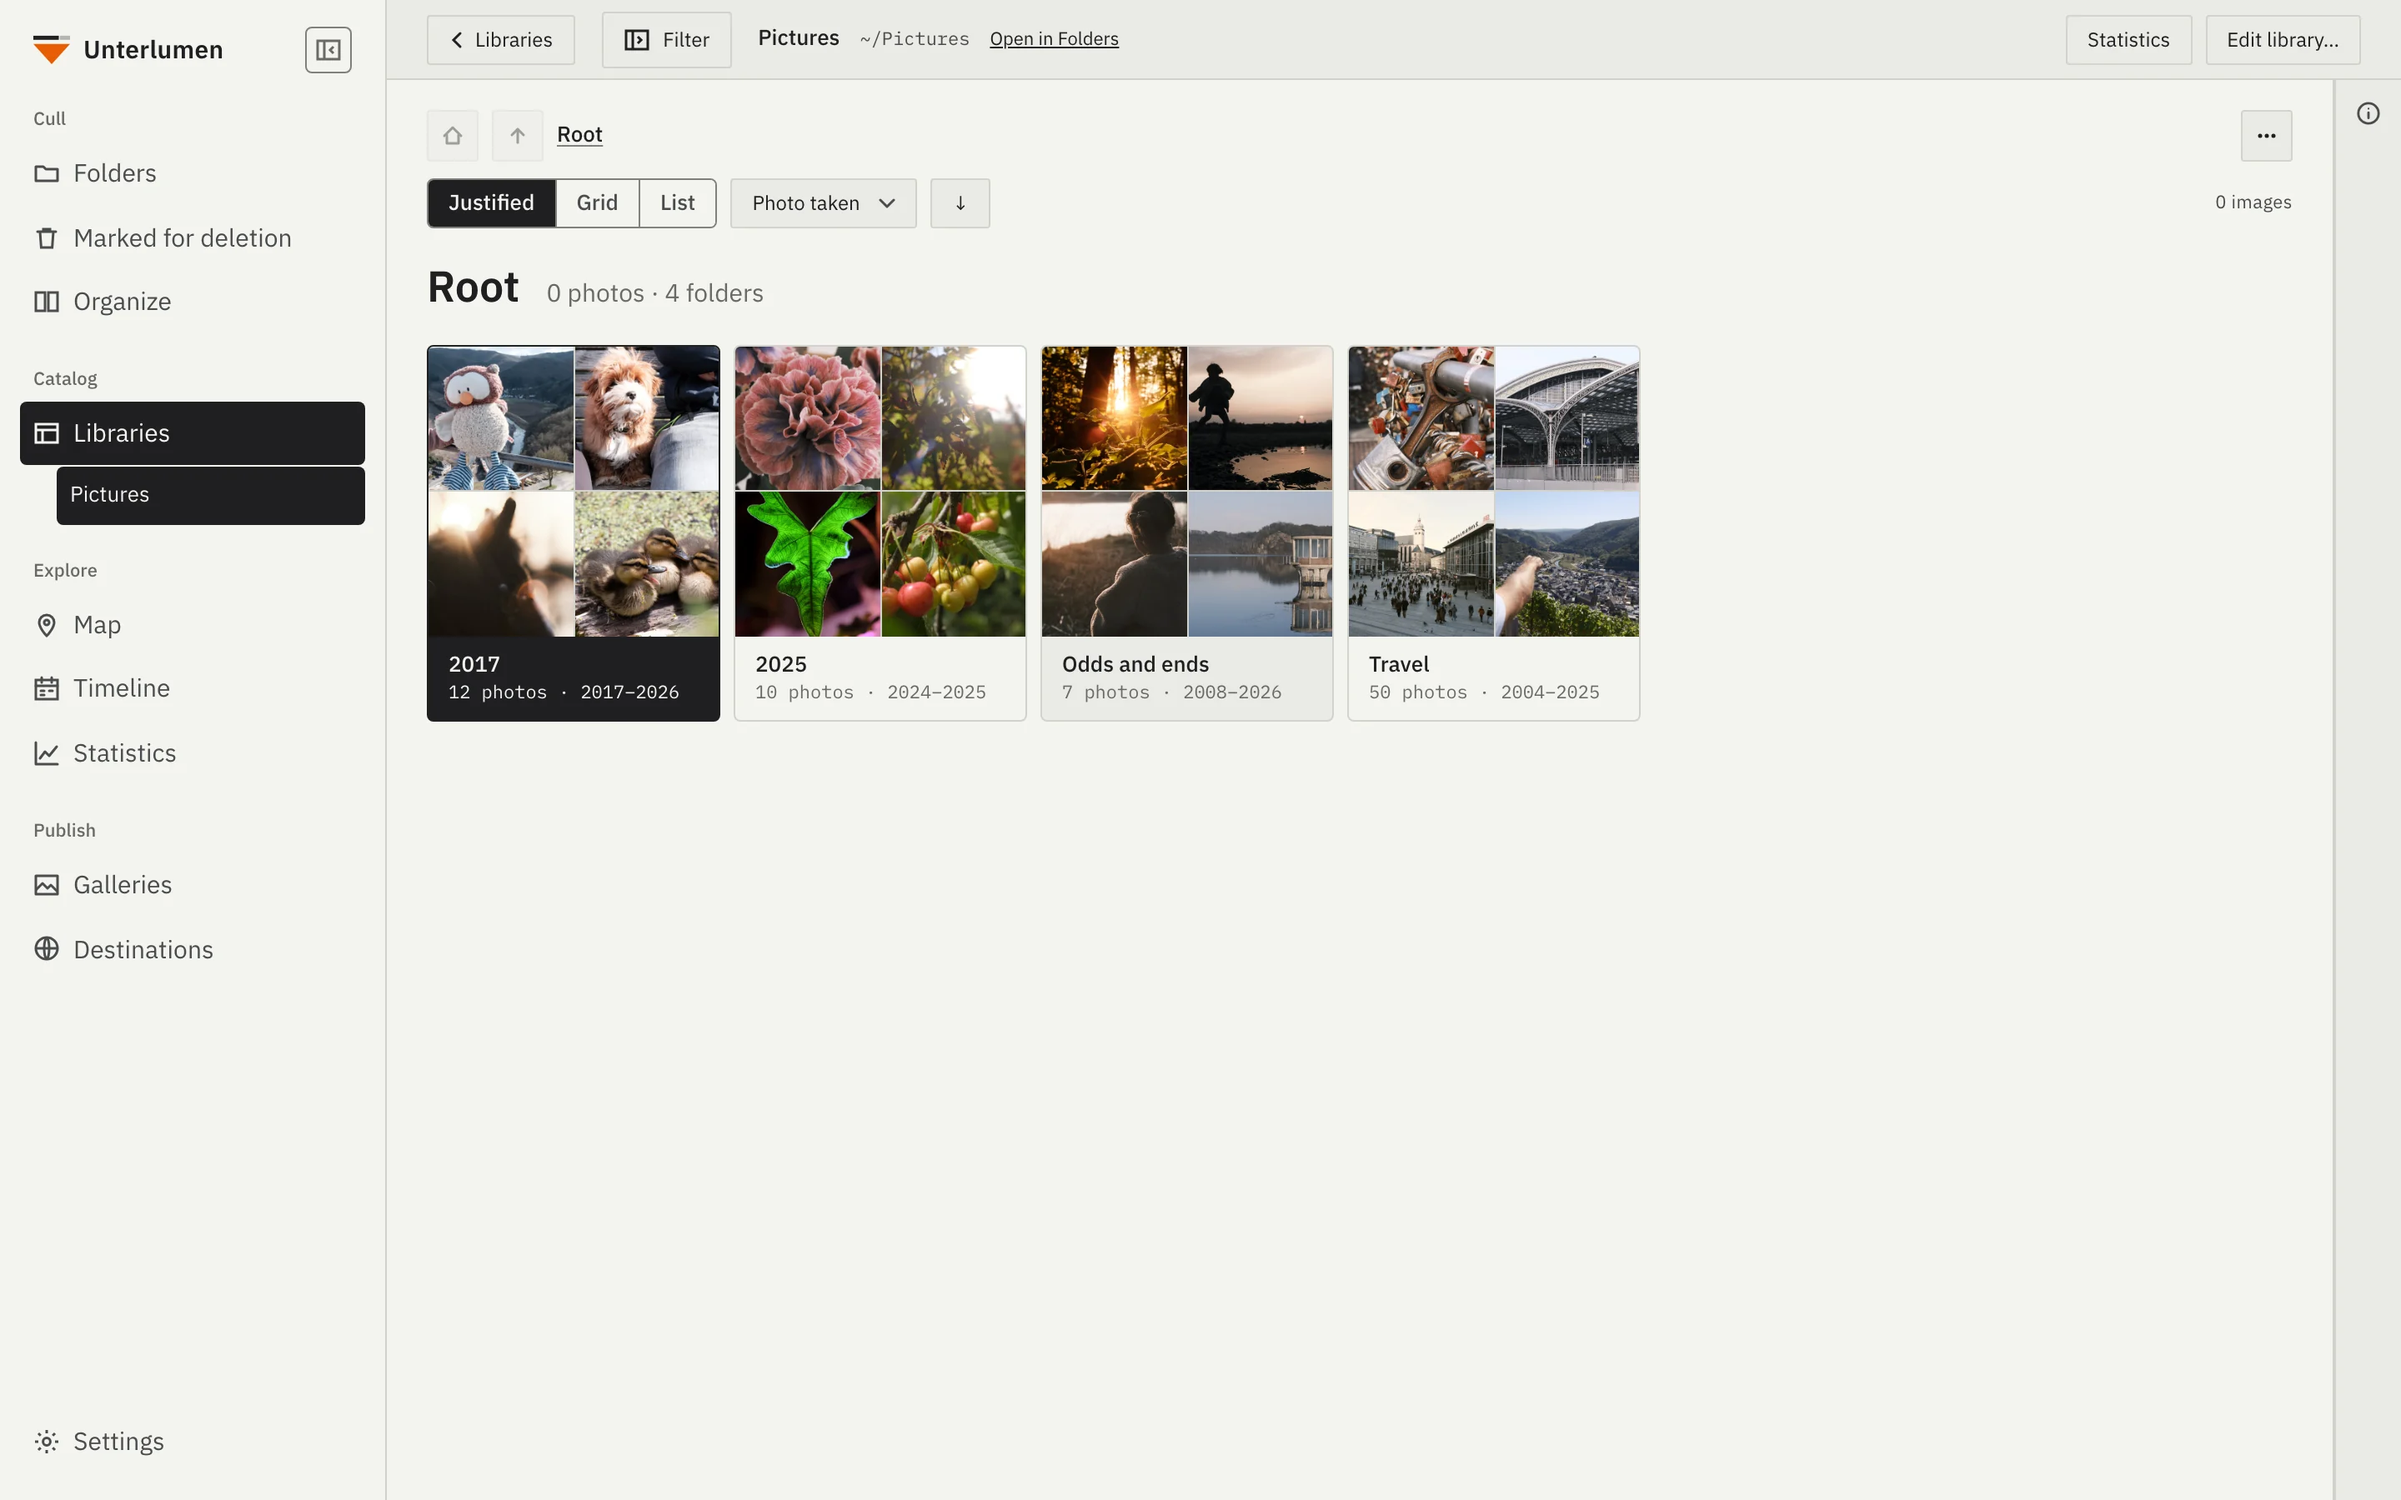
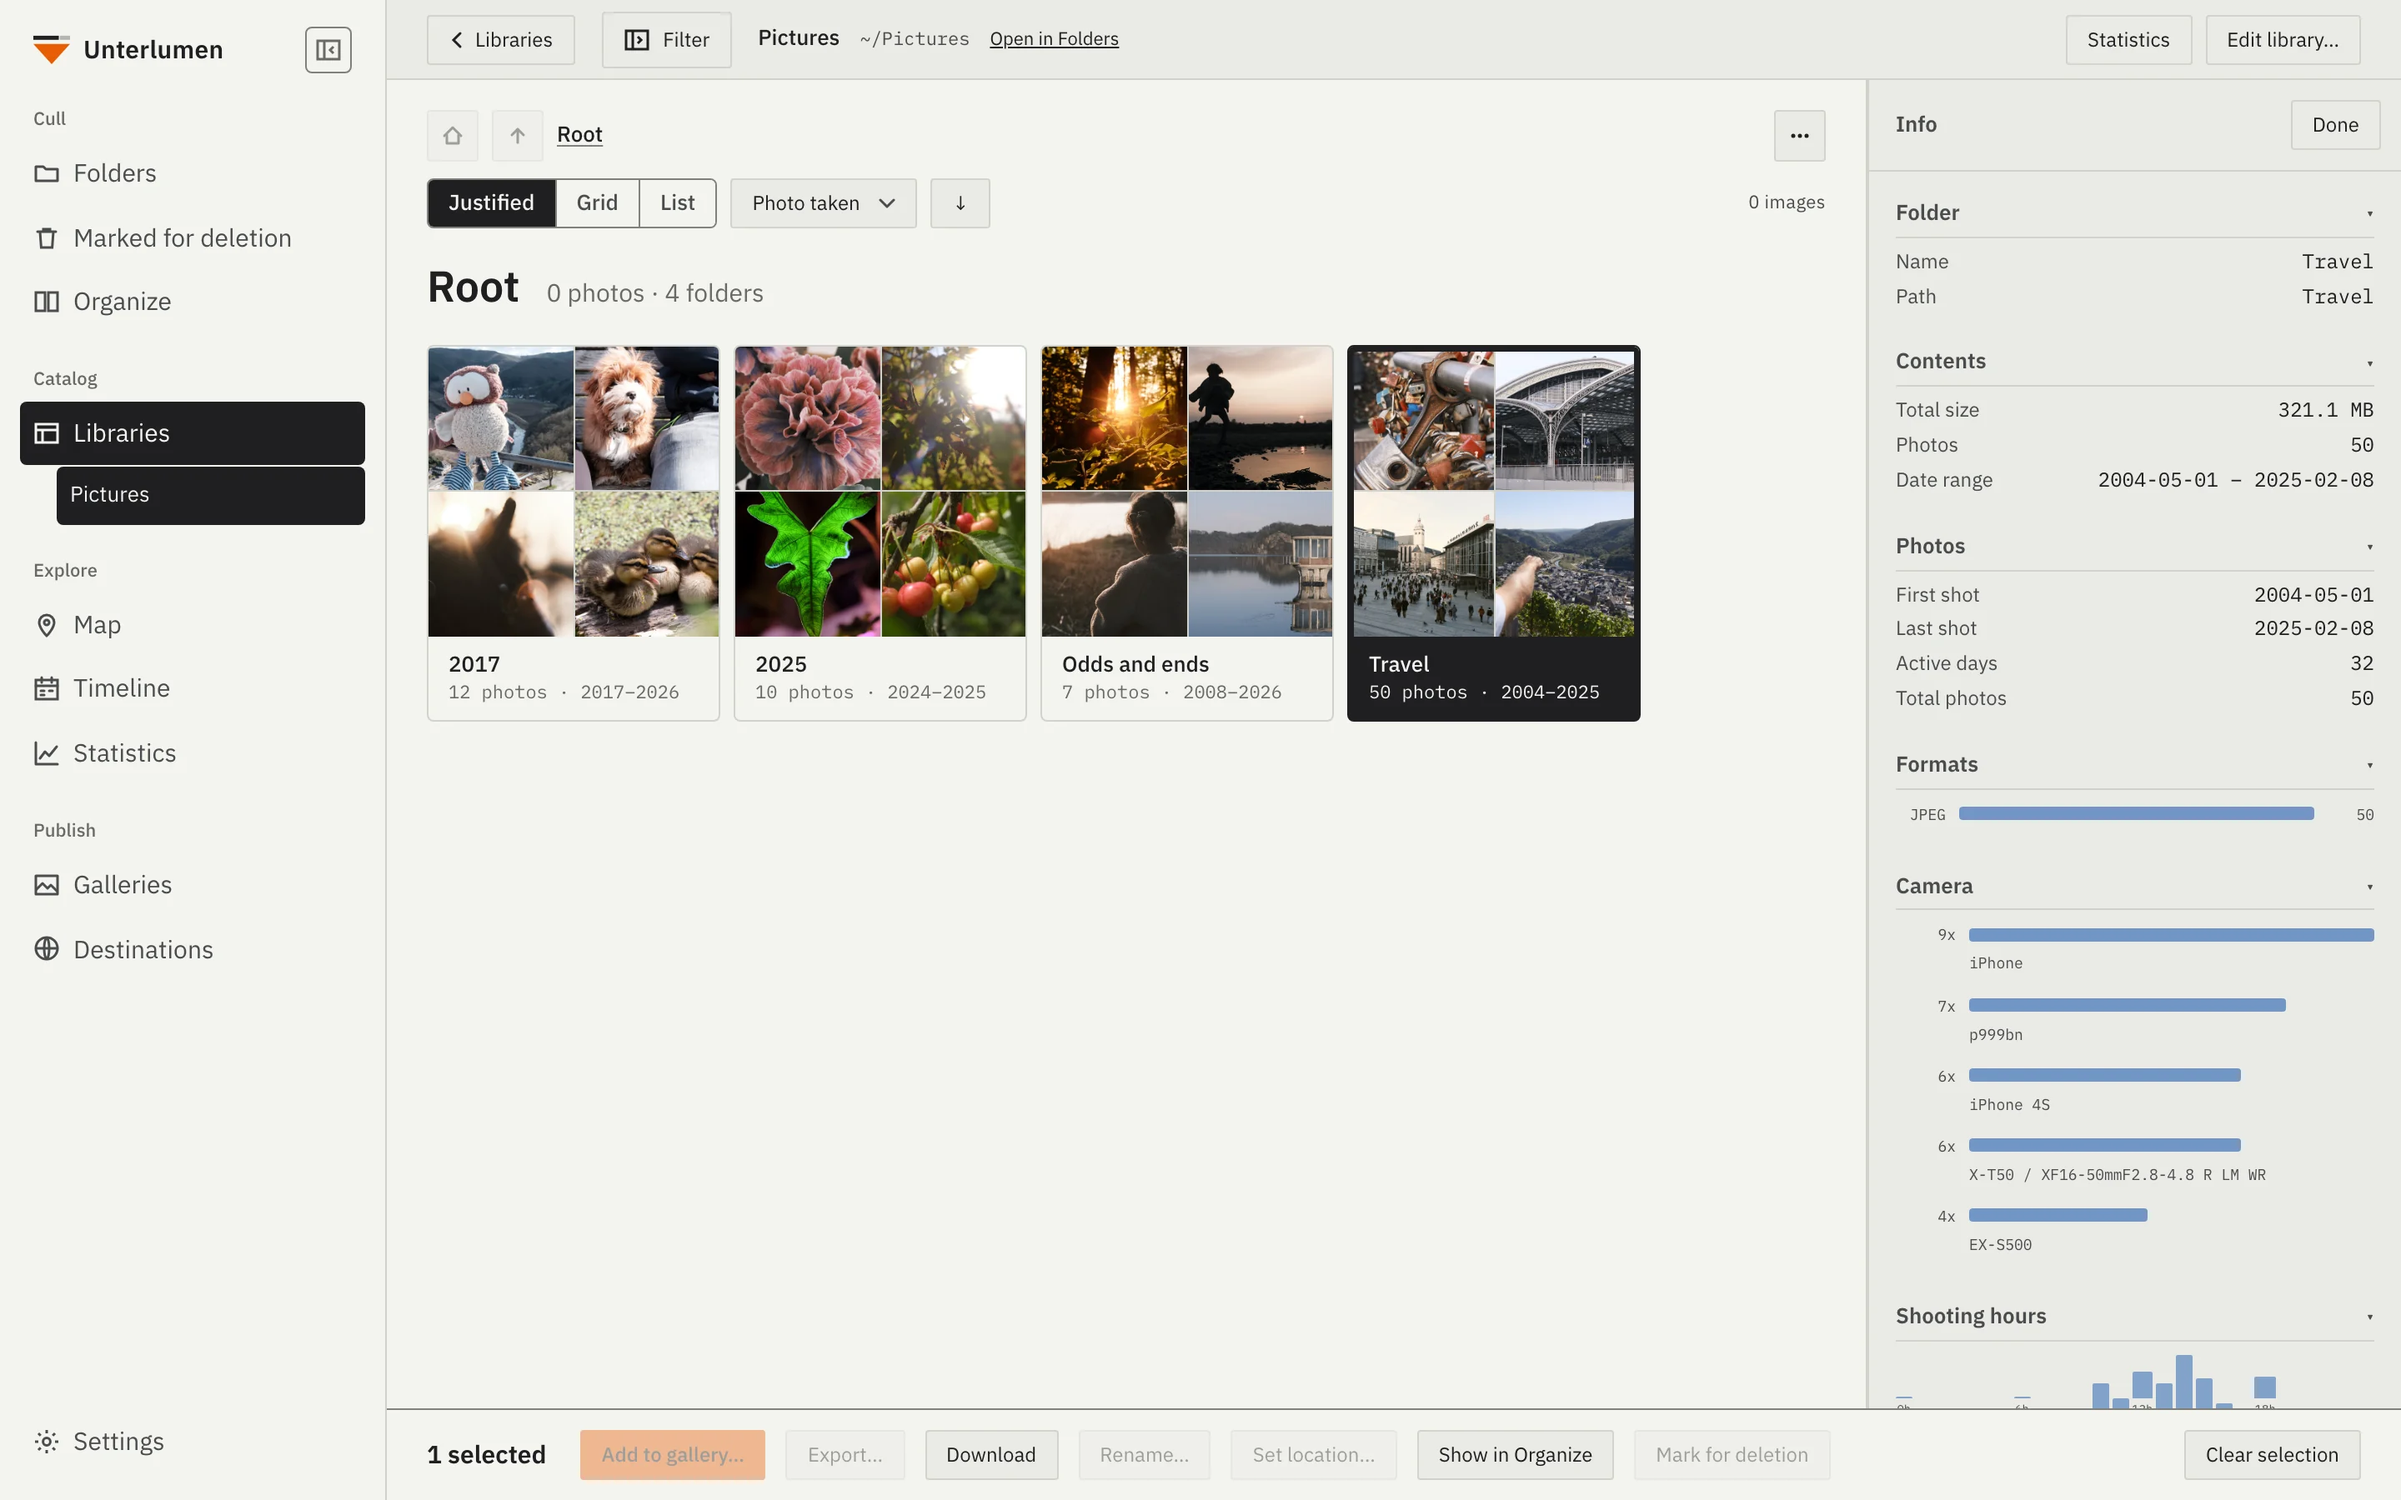
docs: the library picture shows the folder dashboard; fix its camera names
The library screenshot selects a folder with the info panel open beside
the tiles. It showed the dashboard naming cameras and lenses in quotes
("iPhone" / (no lens)) and "Shooting Hours" in title case; both fixed.

The library-sharing spec reads the JPEG fixtures as Travel, so the CI
runner finishes reading them before the test's wait runs out.

diff --git a/src/web/js/folder-dashboard.js b/src/web/js/folder-dashboard.js
@@ -272,9 +272,11 @@ class FolderDashboard {
             const max = Math.max(...stats.cameraLens.map(cl => cl.count), 1);
             const items = stats.cameraLens.slice(0, 5).map(cl => {
                 const pct = Math.round((cl.count / max) * 100);
-                const cam = cl.camera || 'Unknown';
-                const lens = cl.lens || '—';
-                const label = cam + (lens !== '—' ? ' / ' + lens : '');
+                // EXIF values come quoted from the index; a camera without a
+                // lens (a phone, a compact) is named alone.
+                const cam = this.panel.stripQuotes(cl.camera) || 'Unknown';
+                const lens = this.panel.stripQuotes(cl.lens);
+                const label = cam + (lens && lens !== '(no lens)' ? ' / ' + lens : '');
                 return `<div class="folder-cam-item">` +
                     `<div class="folder-cam-bar-row">` +
                     `<span class="folder-cam-count">${cl.count}x</span>` +
@@ -288,7 +290,7 @@ class FolderDashboard {
 
         // Shooting hours (24-bar chart)
         if (stats.shootingHours && stats.shootingHours.some(h => h > 0)) {
-            sections.push(this.panel.section('Shooting Hours', [this._renderHoursChart(stats.shootingHours)]));
+            sections.push(this.panel.section('Shooting hours', [this._renderHoursChart(stats.shootingHours)]));
         }
 
         return sections;

diff --git a/e2e/specs/library-sharing.spec.js b/e2e/specs/library-sharing.spec.js
@@ -40,8 +40,11 @@ test.describe('Sharing a library between two installations', () => {
     test.beforeAll(async () => {
         home = fs.mkdtempSync(path.join(os.tmpdir(), 'unterlumen-libshare-'));
         photos = path.join(home, 'photos');
-        fs.cpSync(path.join(ROOT, 'fixtures', 'photos', 'folder-a'), path.join(photos, 'Travel'), { recursive: true });
-        fs.cpSync(path.join(ROOT, 'fixtures', 'photos', 'folder-b'), path.join(photos, 'Projects'), { recursive: true });
+        // Travel is read twice (New library, and the NAS before the field
+        // test): the JPEGs of folder-b read fast enough for CI; the HEIFs of
+        // folder-a go where nothing reads them.
+        fs.cpSync(path.join(ROOT, 'fixtures', 'photos', 'folder-b'), path.join(photos, 'Travel'), { recursive: true });
+        fs.cpSync(path.join(ROOT, 'fixtures', 'photos', 'folder-a'), path.join(photos, 'Projects'), { recursive: true });
         for (const inst of [NAS, MAC]) {
             const env = { ...process.env, UNTERLUMEN_LIB_DIR: path.join(home, `data-${inst.port}`) };
             for (const k of ['UNTERLUMEN_CHANNELS_DIR', 'UNTERLUMEN_ROOT_PATH', 'UNTERLUMEN_PORT']) delete env[k];

diff --git a/README.md b/README.md
@@ -61,9 +61,9 @@ Marked photos disappear from Folders and libraries but stay on disk until you de
 
 #### Libraries
 
-A library indexes a folder tree once. Its folders then show what they hold: the four newest photos, how many there are and the years they span.
+A library indexes a folder tree once. Its folders then show what they hold: the four newest photos, how many there are and the years they span. Select a folder and the info panel describes it: its size and date range, its formats, the cameras and lenses it was shot with, and at which hours.
 
-![A library with its folders as tiles of four photos](doc/screenshots/library.webp)
+![A library with its folders as tiles of four photos, one selected, and the info panel describing that folder](doc/screenshots/library.webp)
 
 #### Libraries and the filter
 

diff --git a/CHANGELOG.md b/CHANGELOG.md
@@ -5,6 +5,9 @@ All notable changes to this project are documented in this file.
 
 ## [Unreleased]
 
+### Fixed
+- **The folder dashboard names cameras and lenses plainly.** In a library's info panel a selected folder listed them in quotes (`"iPhone" / (no lens)`); it now shows `iPhone`, and a lens only where there is one. "Shooting Hours" is "Shooting hours".
+
 ## [0.15.1] - 2026-10-01
 
 ### Changed
